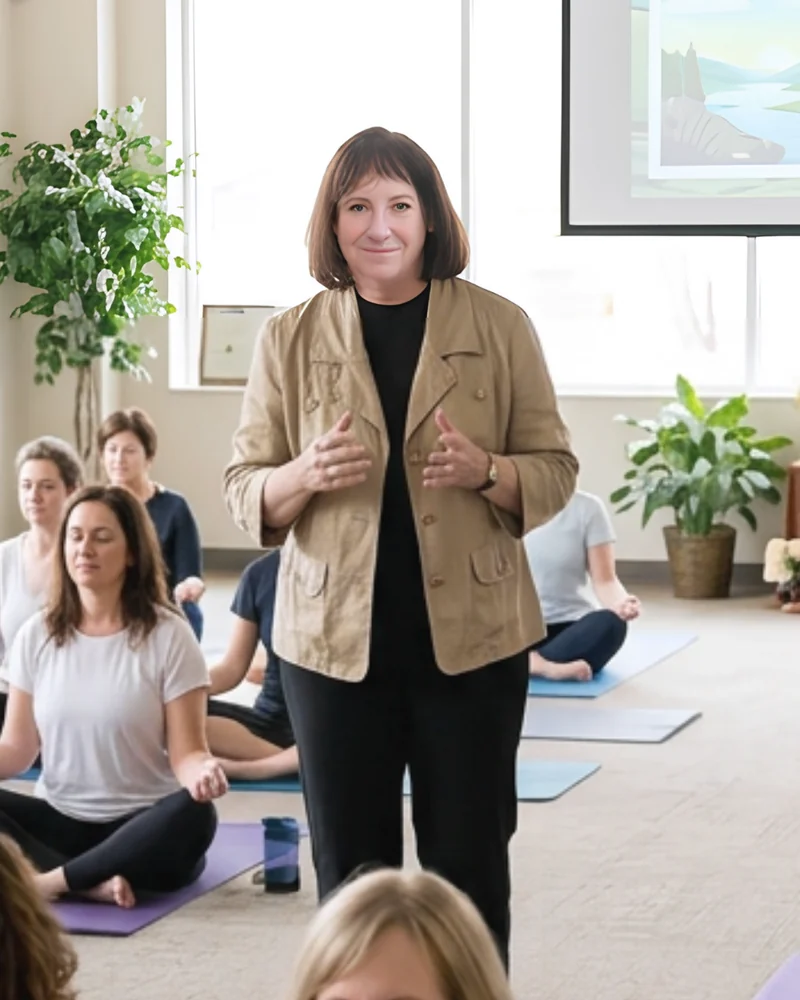
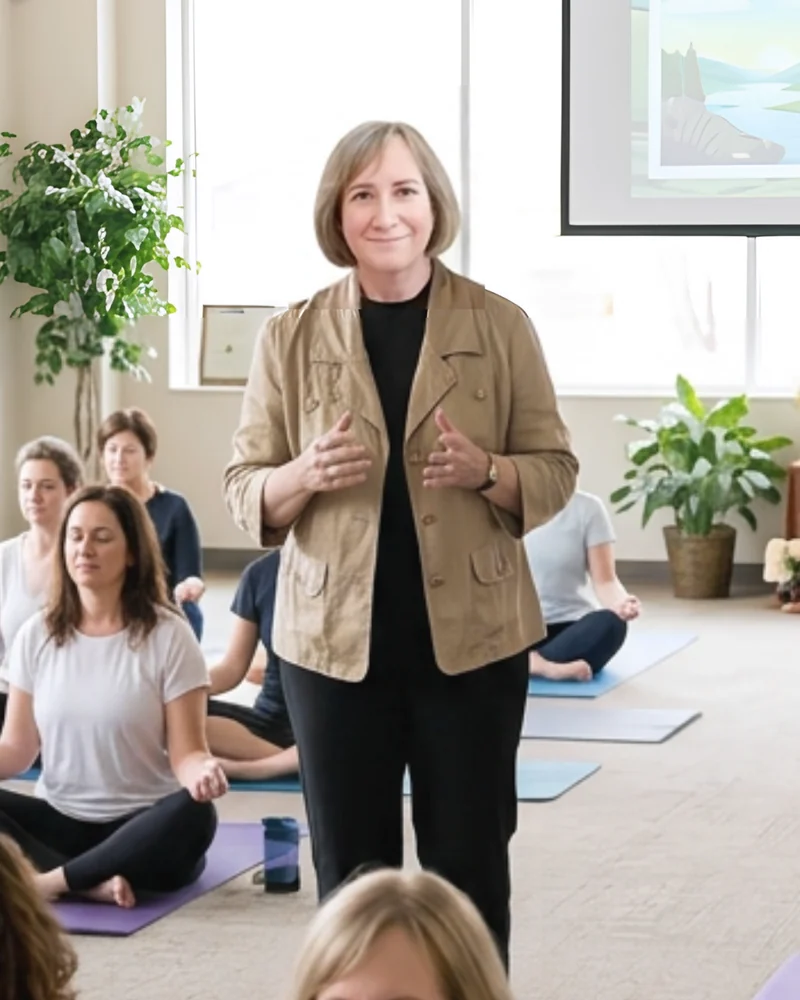
Founder: updated interim photo of Julie
Claude-Session: https://claude.ai/code/session_01CCrnzk5MLEvsRaymUB7eRh

Changed region(s): [[0.3438, 0.124, 0.5938, 0.31]]

diff --git a/index.html b/index.html
@@ -270,7 +270,7 @@ window.scrollTo(0, 0);
 <section class="founder" id="founder" aria-label="Meet the founder" data-nav="light">
   <div class="founder__media" data-anim="scale">
     <div class="founder__glow" aria-hidden="true"></div>
-    <div class="founder__arch"><img class="founder__scene" src="assets/img/julie-mccord.webp" width="800" height="1000" alt="Julie McCord, founder of Lumanta" loading="lazy"></div>
+    <div class="founder__arch"><img class="founder__scene" src="assets/img/julie-mccord.webp?v=2" width="800" height="1000" alt="Julie McCord, founder of Lumanta" loading="lazy"></div>
 
     <img class="founder__mark" src="assets/img/lumanta-mark.webp" width="480" height="531" alt="" loading="lazy">
   </div>
